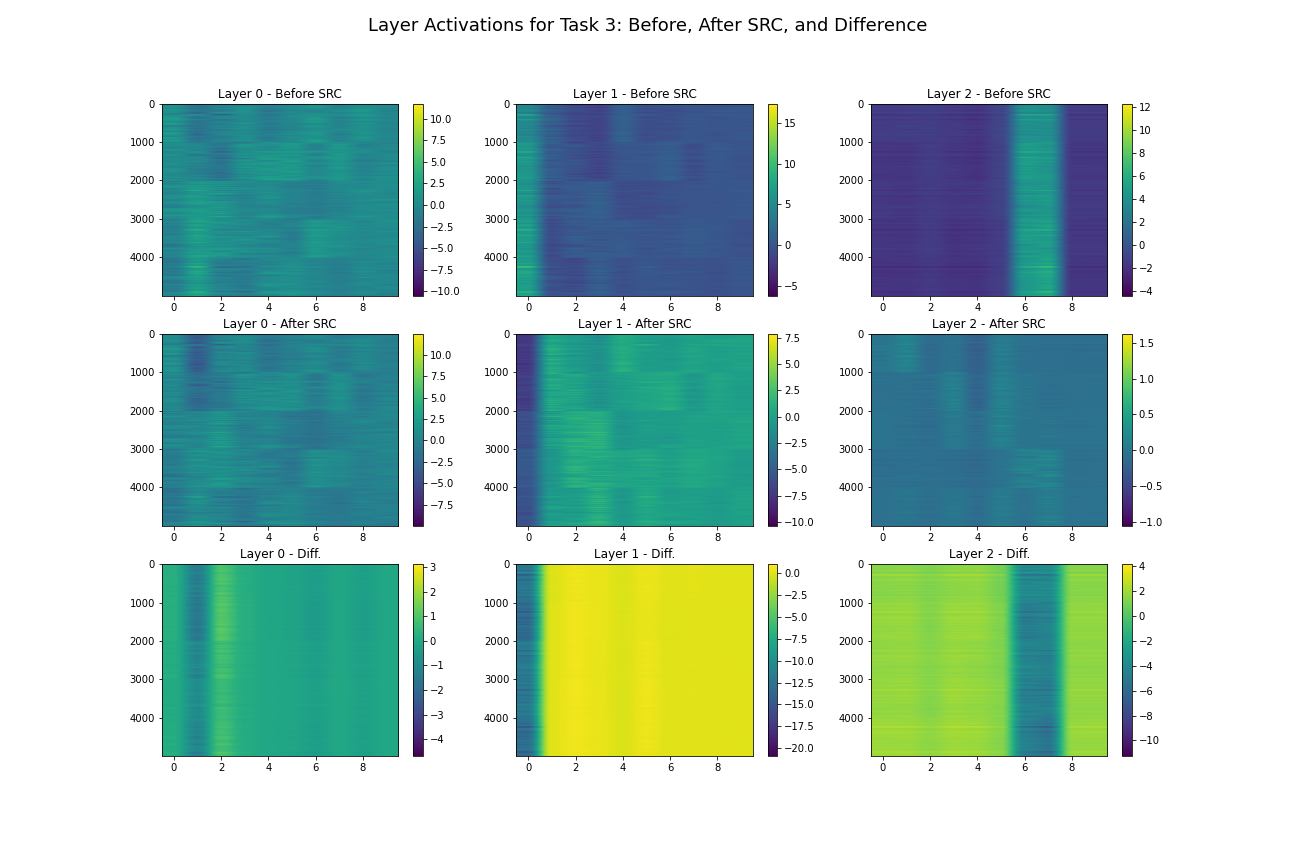
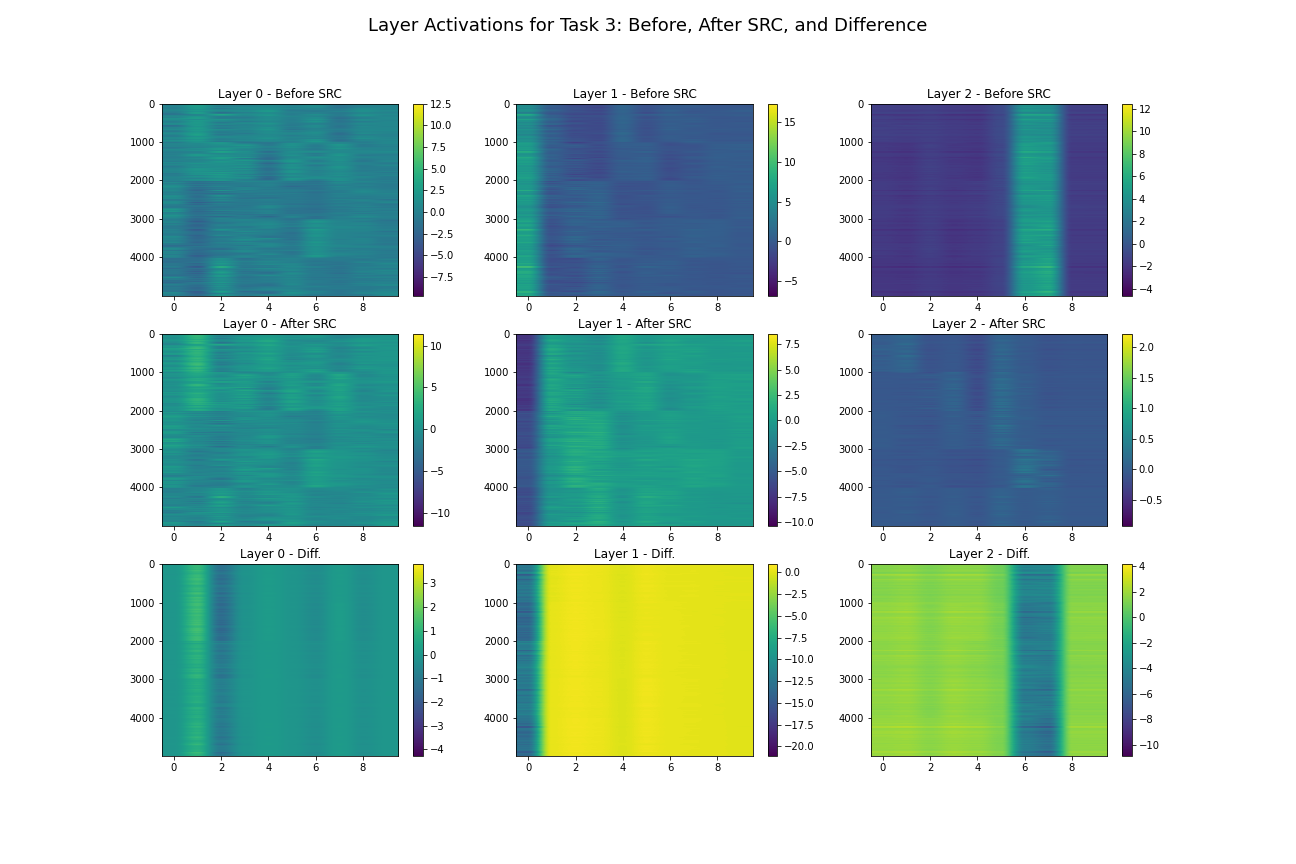
add visualize to parallel

diff --git a/mnist_exp.py b/mnist_exp.py
@@ -340,6 +340,33 @@ acc_df = log_accuracy('Parallel', 'After Training', acc_df, model, test_x, test_
 print(evaluate_per_task(model, test_x, test_y, test_tasks, num_tasks))
 print(evaluate_all(model, test_x, test_y))
 
+# [Visual] Record activations layer visualization
+with torch.no_grad():
+    control_model.eval()
+
+    activations = get_activations(model.to(device), torch.Tensor(sequential_train_x).to(device))
+    layer_activations = [act.cpu() for act in activations.values()]
+
+# [Visual] Fit PCA to the activations and reduce the dimensionality
+reduced_activations = []
+for i in range(len(model.layers)):
+    if i == len(model.layers) - 1:
+        reduced_activations.append(layer_activations[i])
+
+    pca = PCA(n_components=10)
+    reduced_activations.append(pca.fit_transform(layer_activations[i]))
+
+# [Visual] Plot the reduced activations as images for each layer before and after SRC
+fig, axs = plt.subplots(1, len(model.layers), figsize=(len(model.layers) * 6, 5))
+fig.suptitle(f'Layer Activations for Task {task_id}: Before, After SRC, and Difference', fontsize=18)
+
+for i in range(len(model.layers)):
+    im2 = axs[i].imshow(reduced_activations[i], aspect='auto')
+    axs[i].set_title(f'Layer {i} - After SRC', fontsize=12)
+    fig.colorbar(im2, ax=axs[i])
+
+fig.savefig(f'./png/layer_activations_parallel.png')
+
 #%%
 acc_df = pd.DataFrame(acc_df)
 
